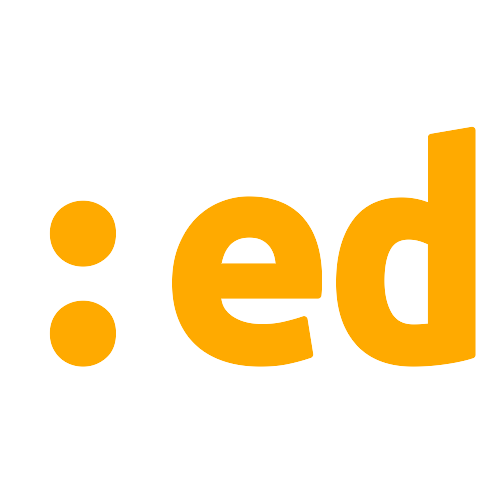
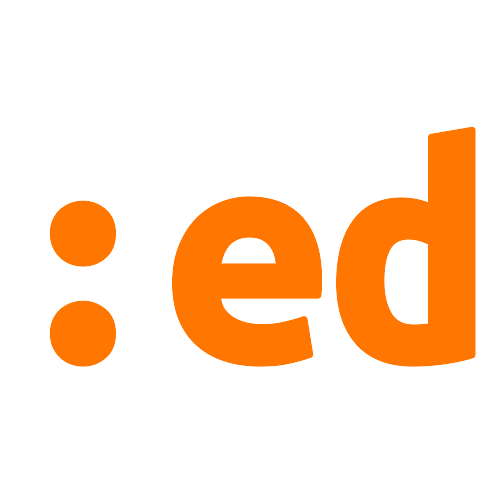
Accent color: Darker orange

Changed region(s): [[0.33, 0.24, 0.96, 0.75], [0.09, 0.6, 0.24, 0.75], [0.09, 0.39, 0.24, 0.54]]

diff --git a/css/styles.36ff197d1bd7d754c9c620bf3fca7692f368ab3621d83b90837c906c89a2ace8ad28c2ec88e40e6772bbf838774b2ab187288ac1114caa166330755726391f30.css b/css/styles.36ff197d1bd7d754c9c620bf3fca7692f368ab3621d83b90837c906c89a2ace8ad28c2ec88e40e6772bbf838774b2ab187288ac1114caa166330755726391f30.css
@@ -1,0 +1,3 @@
+:root{--dark_bg:          #1a1a1a;--dark_hl_bg:       #232323;--dark_fg:          #fff;--dark_dim_fg:      #bbb;--dark_stroke:      #232323;--dark_accent:      #f70;--dark_sidebar_bg:  #232323;--dark_sidebar_fg:  #fff;--light_bg:         #f5f5f5;--light_hl_bg:      #e6e6e6;--light_fg:         #262625;--light_dim_fg:     #40403e;--light_stroke:     #575754;--light_accent:     #f70;--light_sidebar_bg: #e6e6e6;--light_sidebar_fg: #121211;--default_bg:         #1a1a1a;--default_hl_bg:      #232323;--default_fg:         #fff;--default_dim_fg:     #bbb;--default_stroke:     #232323;--default_accent:     #f70;--default_sidebar_bg: #232323;--default_sidebar_fg: #fff}::selection,::-moz-selection{background:var(--default_accent);color:var(--default_fg)}body,html{font-family:"Symbols Nerd Font",serif,monospace;font-size:24px;margin:0;padding:0;background-color:var(--default_bg);color:var(--default_fg)}body{min-height:100vh}a{color:var(--default_fg);text-decoration:none;background-color:transparent;border-radius:0;border-bottom:2px solid currentcolor}a:hover,a:hover:not([disabled]),a:focus,a:focus:not([disabled]){border-color:var(--default_accent) !important;background-color:transparent}a.unstyledLink{border:none;text-decoration:none;color:var(--default_fg);background-color:var(--default_bg)}#content{max-width:1200px;margin-left:auto;margin-right:auto;padding:15px}footer{color:var(--default_dim_fg)}footer a{color:var(--default_dim_fg)}footer hr{margin-top:30px}footer .footerColumns{font-size:21.6px;display:flex;flex-direction:row;flex-wrap:wrap}footer .footerColumns ul{margin:7.5px;list-style-type:none;padding:0}footer .footerColumns ul li>strong{font-size:1.5rem}#links{padding:5px 0}article img,.articlePreview img{margin:auto;display:block;max-width:100%}article pre,article code,.articlePreview pre,.articlePreview code{overflow:auto}article pre,.articlePreview pre{padding:15px;border:1px solid var(--default_stroke);border-radius:3px}code{font-family:"Symbols Nerd Font",monospace,monospace;font-size:21.248px;border:1px solid var(--default_stroke);border-radius:3px}code,table{padding:2px}pre code{border:none;border-radius:none;padding:0}table{border-collapse:collapse;overflow-x:auto;display:block}table td,table th{padding:6px;border:1px solid var(--default_stroke)}table th,table tr:nth-child(even){filter:brightness(105%)}blockquote{margin:1;padding-left:19.5px;border-left:10px solid gray;font-weight:italic}.date,.date a{color:var(--default_dim_fg);border-color:var(--default_dim_fg);font-size:.9em}#pageNavigation a,.nerdlink a,nav:not(#TableOfContents) a{border-bottom:none}#pageNavigation a:hover,.nerdlink a:hover,nav:not(#TableOfContents) a:hover{border-bottom:none}#pageNavigation{text-align:right}#pageNavigation a{color:var(--default_accent)}#pageNavigation a,#pageNavigation span{display:inline-block;padding:6px}#pageNavigation.nav-circles{display:flex;flex-direction:row;flex-wrap:wrap;justify-content:flex-end;align-items:center}#pageNavigation.nav-circles a,#pageNavigation.nav-circles span{margin:5px;text-align:center;display:inline-block;width:40px;height:40px;line-height:40px;padding:unset;border-radius:100%;transition:background-color .15s ease-in-out;background-color:var(--default_hl_bg);color:var(--default_fg);box-shadow:0 0 5px 0 rgba(0,0,0,0.2)}#pageNavigation.nav-circles span{background-color:var(--default_accent)}#pageNavigation.nav-circles a:hover{background-color:var(--default_accent)}h1,h2,h3,h4,h5,h6{font-family:"Symbols Nerd Font",serif}h1 a,h2 a,h3 a,h4 a,h5 a,h6 a{color:var(--default_accent);border-bottom:none}h1{font-size:64px}h2{font-size:48px}h3{font-size:41.6px}h4{font-size:32px}h5{font-size:25.6px}h6{font-size:22.4px}.nerd,.nerdlink{font-family:"Symbols Nerd Font",serif;font-size:19.2px;margin:5px;display:inline-block}.nerdlink{color:var(--default_fg);border-bottom:none;position:relative;width:1em;height:1.2em;display:inline-flex;align-items:center;justify-content:center}.nerdlink .pseudofont{fill:var(--default_fg);display:inline;position:relative;top:1px}.nerdlink span{position:absolute;top:1.5em;left:50%;transform:translateX(-50%);padding:2px;border:1px solid var(--default_stroke);border-radius:3px;color:var(--default_fg);display:none;background-color:var(--default_bg);z-index:900;text-align:center}.nerdlink:hover{color:var(--default_accent);text-decoration:none;border-bottom:none}.nerdlink:hover .pseudofont{fill:var(--default_accent)}.nerdlink:hover span{display:block}.card,.featuredCardLink .featuredCard,.featuredCardLink .relatedArticlesContainer #relatedArticles .postlistitem,.relatedArticlesContainer #relatedArticles .featuredCardLink .postlistitem{display:block;padding-bottom:15px;background-color:var(--default_hl_bg);border-radius:10px;box-shadow:0 0 5px 0 rgba(0,0,0,0.2);padding:15px;padding-top:1px}.card.single h1,.featuredCardLink .single.featuredCard h1,.featuredCardLink .relatedArticlesContainer #relatedArticles .single.postlistitem h1,.relatedArticlesContainer #relatedArticles .featuredCardLink .single.postlistitem h1{font-size:70.4px}.postlist{display:grid;grid-gap:15px;margin-bottom:15px;grid-template-columns:1fr}.postlist.gridView{grid-template-columns:repeat(auto-fit, minmax(325px, 1fr))}.postlistitem.card hr,.featuredCardLink .postlistitem.featuredCard hr,.featuredCardLink .relatedArticlesContainer #relatedArticles .postlistitem hr,.relatedArticlesContainer #relatedArticles .featuredCardLink .postlistitem hr{display:none}.postlistitem.card div img,.featuredCardLink .postlistitem.featuredCard div img,.featuredCardLink .relatedArticlesContainer #relatedArticles .postlistitem div img,.relatedArticlesContainer #relatedArticles .featuredCardLink .postlistitem div img{height:250px;min-width:calc(100% + 30px);margin:0 -15px;object-fit:contain}ul li{margin:5px 0}ul.list .date{display:inline-block;min-width:100px}ul.list>li>div{display:grid;grid-template-columns:100px auto}#commento{margin-top:15px;color:var(--default_fg);font-family:"Symbols Nerd Font",serif,monospace}#commento textarea,#commento #commento-markdown-help-root{background:rgba(255,255,255,0.05);color:var(--default_fg);border-radius:0;border:none}#commento textarea td,#commento textarea td>*,#commento textarea td>*>*,#commento #commento-markdown-help-root td,#commento #commento-markdown-help-root td>*,#commento #commento-markdown-help-root td>*>*{color:var(--default_fg)}#commento textarea td pre,#commento textarea td>* pre,#commento textarea td>*>* pre,#commento #commento-markdown-help-root td pre,#commento #commento-markdown-help-root td>* pre,#commento #commento-markdown-help-root td>*>* pre{font-family:"Symbols Nerd Font",monospace,monospace;color:var(--default_dim_fg)}#commento #commento-submit-button-root{background:var(--default_accent);color:var(--default_fg)}#commento .commento-name{color:var(--default_dim_fg)}#commento .commento-sort-policy-buttons a{border-bottom:none}#commento .commento-sort-policy-buttons .commento-sort-policy-button-selected{color:var(--default_accent)}#commento .commento-card{border-top:none;margin:25px 0}#commento .commento-body>*,#commento .commento-body *>*,#commento .commento-body>*>*>*,#commento .commento-body>*>*>*>*,#commento .commento-body>*>*>*>*>*{color:var(--default_fg);font-family:"Symbols Nerd Font",serif,monospace}.search{display:flex;flex-direction:row;flex-wrap:nowrap;align-items:center;margin:15px 0}.search .nerdlink{display:inline-block;cursor:pointer;padding:0 6px}.search #searchbar{width:100%;min-width:150px;font-size:1.3em;outline:none}.titleAndSearchContainer{display:flex;flex-direction:row;flex-wrap:wrap;justify-content:space-between}.titleAndSearchContainer #titleContainer{flex-grow:99}.titleAndSearchContainer .search{flex-grow:1}.titleAndSearchContainer .search,.titleAndSearchContainer .search #searchbar{font-size:1em}.featuredCardLink{border:none;padding:0}.featuredCardLink .featuredCard,.featuredCardLink .relatedArticlesContainer #relatedArticles .postlistitem,.relatedArticlesContainer #relatedArticles .featuredCardLink .postlistitem{background-size:cover;background-position:center;background-repeat:no-repeat;position:relative;height:250px;border-radius:10px;padding:0}.featuredCardLink .featuredCard .contentArea,.featuredCardLink .relatedArticlesContainer #relatedArticles .postlistitem .contentArea,.relatedArticlesContainer #relatedArticles .featuredCardLink .postlistitem .contentArea{position:absolute;bottom:0;padding:15px}.featuredCardLink .featuredCard .contentArea,.featuredCardLink .relatedArticlesContainer #relatedArticles .postlistitem .contentArea,.relatedArticlesContainer #relatedArticles .featuredCardLink .postlistitem .contentArea,.featuredCardLink .featuredCard .contentArea h2,.featuredCardLink .relatedArticlesContainer #relatedArticles .postlistitem .contentArea h2,.relatedArticlesContainer #relatedArticles .featuredCardLink .postlistitem .contentArea h2,.featuredCardLink .featuredCard .contentArea .date,.featuredCardLink .relatedArticlesContainer #relatedArticles .postlistitem .contentArea .date,.relatedArticlesContainer #relatedArticles .featuredCardLink .postlistitem .contentArea .date{color:white}.featuredCardLink .featuredCard .contentArea h2,.featuredCardLink .relatedArticlesContainer #relatedArticles .postlistitem .contentArea h2,.relatedArticlesContainer #relatedArticles .featuredCardLink .postlistitem .contentArea h2{margin:0}.featuredCardLink .featuredCard .contentArea .date,.featuredCardLink .relatedArticlesContainer #relatedArticles .postlistitem .contentArea .date,.relatedArticlesContainer #relatedArticles .featuredCardLink .postlistitem .contentArea .date{margin:0}.loadMoreButton{text-align:center;font-size:1.2em;font-weight:bold}.loadMoreButton.buttonLike a{display:inline-block;border-radius:10px;background-color:var(--default_hl_bg);color:var(--default_fg);padding:7.5px;margin:2.5px 0;transition:background-color .15s ease-in-out !important;border-bottom:none;box-shadow:0 0 5px 0 rgba(0,0,0,0.2)}.loadMoreButton.buttonLike a:hover,.loadMoreButton.buttonLike a:focus{background-color:var(--default_accent)}.relatedArticlesContainer{margin:15px 0}#titleContainer{display:flex;flex-direction:row;flex-wrap:nowrap;align-items:flex-start;align-self:flex-start}#titleContainer h1{font-weight:normal;font-size:51.2px;margin:0;display:flex;flex-direction:row;flex-wrap:wrap;align-items:center}#titleContainer h1>a{margin-right:12px}#titleContainer img{margin-right:7.5px;margin-top:7px;align-self:flex-start;width:50px;max-height:50px;border-radius:5px}nav:not(#TableOfContents) ul,#links ul{list-style-type:none;display:flex;flex-direction:row;flex-wrap:wrap;padding:0;margin:0}header{max-width:1200px;margin-left:auto;margin-right:auto;padding:15px;margin-bottom:15px}header .rightOfLogo{width:100%}header .rightOfLogo .titleAndHamburger{display:flex;flex-direction:row;flex-wrap:nowrap;align-items:flex-start;justify-content:space-between}header nav:not(#TableOfContents){font-size:.9em}header nav:not(#TableOfContents) ul li{border-right:1px solid var(--default_accent)}header nav:not(#TableOfContents) ul li:last-child{border-right:none}header nav:not(#TableOfContents) ul li a{padding:2px 15px;color:var(--default_accent)}header nav:not(#TableOfContents) ul li a:hover{text-decoration:underline}.articleTagsContainer{margin:15px 0}a.buttonTag{display:inline-block;border-radius:10px;background-color:var(--default_hl_bg);color:var(--default_fg);padding:7.5px;margin:2.5px 0;transition:background-color .15s ease-in-out !important;border-bottom:none;box-shadow:0 0 5px 0 rgba(0,0,0,0.2)}a.buttonTag:hover,a.buttonTag:focus{background-color:var(--default_accent)}.cactus-button,.cactus-login-buttons>button{font-family:serif;padding:0;margin:5px 0 5px 15px !important;color:var(--default_fg);text-decoration:none;background-color:transparent;border-radius:0;border-bottom:2px solid currentcolor;font-size:19.2px;transition-property:border-color, background-color !important;transition-duration:.15s;transition-timing-function:ease-in-out;opacity:1 !important}.cactus-button:hover,.cactus-button:hover:not([disabled]),.cactus-button:focus,.cactus-button:focus:not([disabled]),.cactus-login-buttons>button:hover,.cactus-login-buttons>button:hover:not([disabled]),.cactus-login-buttons>button:focus,.cactus-login-buttons>button:focus:not([disabled]){border-color:var(--default_accent) !important;background-color:transparent}.cactus-button[disabled],.cactus-login-buttons>button[disabled]{opacity:.5 !important;border-color:transparent !important;background-color:transparent !important;box-shadow:none}.shareBtn,button{color:var(--default_fg);text-decoration:none;background-color:transparent;border-radius:0;border-bottom:2px solid currentcolor;font-size:19.2px;cursor:pointer}.shareBtn:hover,.shareBtn:hover:not([disabled]),.shareBtn:focus,.shareBtn:focus:not([disabled]),button:hover,button:hover:not([disabled]),button:focus,button:focus:not([disabled]){border-color:var(--default_accent) !important;background-color:transparent}input,textarea,textarea.cactus-editor-textarea{border-radius:0 !important;box-sizing:border-box;font-family:"Symbols Nerd Font",serif;background-color:var(--default_hl_bg) !important;color:var(--default_fg);max-width:100%;min-width:10px;padding:12px;border:2px solid transparent !important;border-color:transparent;transition:border-color .15s ease-in-out !important}input:focus,input:active,textarea:focus,textarea:active,textarea.cactus-editor-textarea:focus,textarea.cactus-editor-textarea:active{border-color:var(--default_accent) !important;outline:none}.cactus-editor-name{box-sizing:border-box;max-width:100%;min-width:10px}.cactus-login-form{border-radius:0;box-shadow:0 0 5px 0 rgba(0,0,0,0.2);max-width:600px;min-width:200px;width:100%;margin:0 auto;box-sizing:border-box;transform:none;top:30px;left:0;right:0;background-color:var(--default_bg) !important;color:var(--default_fg) !important;z-index:9999}.cactus-login-form>a{color:var(--default_fg);text-decoration:none;background-color:transparent;border-radius:0;border-bottom:2px solid currentcolor;font-size:19.2px;align-self:flex-end}.cactus-login-form>a:hover,.cactus-login-form>a:hover:not([disabled]),.cactus-login-form>a:focus,.cactus-login-form>a:focus:not([disabled]){border-color:var(--default_accent) !important;background-color:transparent}.cactus-login-form>a>button{background-color:transparent !important;border:none !important;box-shadow:none !important;margin:0 !important;padding:0 !important}.cactus-login-form .cactus-login-buttons{margin:0;justify-content:flex-end}.cactus-login-form .cactus-login-buttons>button{flex-grow:0;white-space:nowrap}#fediInstanceDialog{display:none;position:fixed;top:0;bottom:0;left:0;right:0}#fediInstanceDialog .dialog{box-shadow:0 0 5px 0 rgba(0,0,0,0.2);box-sizing:border-box;position:absolute;display:flex;flex-direction:column;top:30px;left:50%;transform:translateX(-50%);z-index:9999;background-color:var(--default_bg);width:450px;max-width:100%;padding:15px}#fediInstanceDialog .dialog h1,#fediInstanceDialog .dialog h2,#fediInstanceDialog .dialog h3,#fediInstanceDialog .dialog h4{margin:0}#fediInstanceDialog .dialog h2{margin-bottom:24px}#fediInstanceDialog .dialog input{display:block}#fediInstanceDialog .dialog .buttons{margin:15px 0;display:flex;flex-direction:row;justify-content:end}#fediInstanceDialog .dialog .buttons>*{margin:5px 0 5px 15px;display:block}#fediInstanceDialog .bg{z-index:99;position:absolute;top:0;bottom:0;left:0;right:0;background-color:rgba(0,0,0,0.4);cursor:pointer}#fediInstanceDialog.open{display:block}header #sidebar_nav,header .sidebarToc{display:none}header #wide_nav{display:block}@media only screen and (min-width: 950px){html:not(.home){position:fixed;top:0;bottom:0;left:0;right:0;color:var(--default_sidebar_fg)}html:not(.home) #baseContainer{display:flex;flex-direction:row;flex-wrap:nowrap;max-height:100vh}html:not(.home) #baseContainer header{margin-left:unset;margin-right:unset;background-color:var(--default_sidebar_bg);max-width:350px;min-width:350px;height:100vh;display:block;overflow:auto;margin-bottom:0;padding:0 15px;box-shadow:0 0 5px 0 rgba(0,0,0,0.2)}html:not(.home) #baseContainer header>*:first-child{padding-bottom:15px;padding-top:15px}html:not(.home) #baseContainer header .rightOfLogo{align-self:center}html:not(.home) #baseContainer header #sidebar_nav{display:block;margin:15px 0;width:100%}html:not(.home) #baseContainer header #sidebar_nav nav:not(#TableOfContents){font-size:1.1em}html:not(.home) #baseContainer header #sidebar_nav nav:not(#TableOfContents) ul#main-nav{flex-direction:column}html:not(.home) #baseContainer header #sidebar_nav nav:not(#TableOfContents) ul#main-nav li{border-right:none}html:not(.home) #baseContainer header #sidebar_nav nav:not(#TableOfContents) ul#main-nav li a{display:block}html:not(.home) #baseContainer header #wide_nav{display:none}html:not(.home) #baseContainer header .sidebarToc{display:block}html:not(.home) #baseContainer header .sidebarToc nav#TableOfContents ul{padding-left:24px}html:not(.home) #baseContainer header .sidebarToc nav#TableOfContents ul a:not(:hover){border-color:transparent}html:not(.home) #baseContainer #contentContainer{flex-grow:1;overflow-y:auto}html:not(.home) .articleToc{display:none}}a{transition-property:color, border-color;transition-duration:.15s;transition-timing-function:ease-in-out}.nerdlink,.nerdlink .pseudofond{transition:all .15s ease-in-out}input{transition:.15s border ease-in-out}
+
+/*# sourceMappingURL=styles.css.map */

diff --git a/404.html b/404.html
@@ -43,7 +43,7 @@
 
     
     
-    <link type="text/css" rel="stylesheet" href=https://hossein-lap.github.io/css/styles.dcd903d900c2ab8d78f15e71742bb809a5561cfc90b43dd43896d93c9a749e21ba7a92af14f294077d26323376452f6cd5b62c47f6a303e1f8ece7e007d7d13d.css integrity="sha512-3NkD2QDCq4148V5xdCu4CaVWHPyQtD3UOJbZPJp0niG6epKvFPKUB30mMjN2RS9s1bYsR/ajA&#43;H47OfgB9fRPQ==" />
+    <link type="text/css" rel="stylesheet" href=https://hossein-lap.github.io/css/styles.36ff197d1bd7d754c9c620bf3fca7692f368ab3621d83b90837c906c89a2ace8ad28c2ec88e40e6772bbf838774b2ab187288ac1114caa166330755726391f30.css integrity="sha512-Nv8ZfRvX11TJxiC/P8p2kvNoqzYh2DuQg3yQbImirOitKMLsiOQOZ3K7&#43;Dh3SyqxhyiKwRFMqhZjMHVXJjkfMA==" />
 <meta name="author" content="Hossein Esmail" />
 
     

diff --git a/about/index.html b/about/index.html
@@ -43,7 +43,7 @@
 
     
     
-    <link type="text/css" rel="stylesheet" href=https://hossein-lap.github.io/css/styles.dcd903d900c2ab8d78f15e71742bb809a5561cfc90b43dd43896d93c9a749e21ba7a92af14f294077d26323376452f6cd5b62c47f6a303e1f8ece7e007d7d13d.css integrity="sha512-3NkD2QDCq4148V5xdCu4CaVWHPyQtD3UOJbZPJp0niG6epKvFPKUB30mMjN2RS9s1bYsR/ajA&#43;H47OfgB9fRPQ==" />
+    <link type="text/css" rel="stylesheet" href=https://hossein-lap.github.io/css/styles.36ff197d1bd7d754c9c620bf3fca7692f368ab3621d83b90837c906c89a2ace8ad28c2ec88e40e6772bbf838774b2ab187288ac1114caa166330755726391f30.css integrity="sha512-Nv8ZfRvX11TJxiC/P8p2kvNoqzYh2DuQg3yQbImirOitKMLsiOQOZ3K7&#43;Dh3SyqxhyiKwRFMqhZjMHVXJjkfMA==" />
 <meta name="author" content="Hossein Esmail" />
 
     

diff --git a/categories/index.html b/categories/index.html
@@ -48,7 +48,7 @@
 
     
     
-    <link type="text/css" rel="stylesheet" href=https://hossein-lap.github.io/css/styles.dcd903d900c2ab8d78f15e71742bb809a5561cfc90b43dd43896d93c9a749e21ba7a92af14f294077d26323376452f6cd5b62c47f6a303e1f8ece7e007d7d13d.css integrity="sha512-3NkD2QDCq4148V5xdCu4CaVWHPyQtD3UOJbZPJp0niG6epKvFPKUB30mMjN2RS9s1bYsR/ajA&#43;H47OfgB9fRPQ==" />
+    <link type="text/css" rel="stylesheet" href=https://hossein-lap.github.io/css/styles.36ff197d1bd7d754c9c620bf3fca7692f368ab3621d83b90837c906c89a2ace8ad28c2ec88e40e6772bbf838774b2ab187288ac1114caa166330755726391f30.css integrity="sha512-Nv8ZfRvX11TJxiC/P8p2kvNoqzYh2DuQg3yQbImirOitKMLsiOQOZ3K7&#43;Dh3SyqxhyiKwRFMqhZjMHVXJjkfMA==" />
 <meta name="author" content="Hossein Esmail" />
 
     

diff --git a/docs/asciidoc/asciidoc/index.html b/docs/asciidoc/asciidoc/index.html
@@ -43,7 +43,7 @@
 
     
     
-    <link type="text/css" rel="stylesheet" href=https://hossein-lap.github.io/css/styles.dcd903d900c2ab8d78f15e71742bb809a5561cfc90b43dd43896d93c9a749e21ba7a92af14f294077d26323376452f6cd5b62c47f6a303e1f8ece7e007d7d13d.css integrity="sha512-3NkD2QDCq4148V5xdCu4CaVWHPyQtD3UOJbZPJp0niG6epKvFPKUB30mMjN2RS9s1bYsR/ajA&#43;H47OfgB9fRPQ==" />
+    <link type="text/css" rel="stylesheet" href=https://hossein-lap.github.io/css/styles.36ff197d1bd7d754c9c620bf3fca7692f368ab3621d83b90837c906c89a2ace8ad28c2ec88e40e6772bbf838774b2ab187288ac1114caa166330755726391f30.css integrity="sha512-Nv8ZfRvX11TJxiC/P8p2kvNoqzYh2DuQg3yQbImirOitKMLsiOQOZ3K7&#43;Dh3SyqxhyiKwRFMqhZjMHVXJjkfMA==" />
 <meta name="author" content="Hossein Esmail" />
 
     

diff --git a/docs/elixir/elixir/index.html b/docs/elixir/elixir/index.html
@@ -43,7 +43,7 @@
 
     
     
-    <link type="text/css" rel="stylesheet" href=https://hossein-lap.github.io/css/styles.dcd903d900c2ab8d78f15e71742bb809a5561cfc90b43dd43896d93c9a749e21ba7a92af14f294077d26323376452f6cd5b62c47f6a303e1f8ece7e007d7d13d.css integrity="sha512-3NkD2QDCq4148V5xdCu4CaVWHPyQtD3UOJbZPJp0niG6epKvFPKUB30mMjN2RS9s1bYsR/ajA&#43;H47OfgB9fRPQ==" />
+    <link type="text/css" rel="stylesheet" href=https://hossein-lap.github.io/css/styles.36ff197d1bd7d754c9c620bf3fca7692f368ab3621d83b90837c906c89a2ace8ad28c2ec88e40e6772bbf838774b2ab187288ac1114caa166330755726391f30.css integrity="sha512-Nv8ZfRvX11TJxiC/P8p2kvNoqzYh2DuQg3yQbImirOitKMLsiOQOZ3K7&#43;Dh3SyqxhyiKwRFMqhZjMHVXJjkfMA==" />
 <meta name="author" content="Hossein Esmail" />
 
     

diff --git a/docs/go/go/index.html b/docs/go/go/index.html
@@ -43,7 +43,7 @@
 
     
     
-    <link type="text/css" rel="stylesheet" href=https://hossein-lap.github.io/css/styles.dcd903d900c2ab8d78f15e71742bb809a5561cfc90b43dd43896d93c9a749e21ba7a92af14f294077d26323376452f6cd5b62c47f6a303e1f8ece7e007d7d13d.css integrity="sha512-3NkD2QDCq4148V5xdCu4CaVWHPyQtD3UOJbZPJp0niG6epKvFPKUB30mMjN2RS9s1bYsR/ajA&#43;H47OfgB9fRPQ==" />
+    <link type="text/css" rel="stylesheet" href=https://hossein-lap.github.io/css/styles.36ff197d1bd7d754c9c620bf3fca7692f368ab3621d83b90837c906c89a2ace8ad28c2ec88e40e6772bbf838774b2ab187288ac1114caa166330755726391f30.css integrity="sha512-Nv8ZfRvX11TJxiC/P8p2kvNoqzYh2DuQg3yQbImirOitKMLsiOQOZ3K7&#43;Dh3SyqxhyiKwRFMqhZjMHVXJjkfMA==" />
 <meta name="author" content="Hossein Esmail" />
 
     

diff --git a/docs/index.html b/docs/index.html
@@ -48,7 +48,7 @@
 
     
     
-    <link type="text/css" rel="stylesheet" href=https://hossein-lap.github.io/css/styles.dcd903d900c2ab8d78f15e71742bb809a5561cfc90b43dd43896d93c9a749e21ba7a92af14f294077d26323376452f6cd5b62c47f6a303e1f8ece7e007d7d13d.css integrity="sha512-3NkD2QDCq4148V5xdCu4CaVWHPyQtD3UOJbZPJp0niG6epKvFPKUB30mMjN2RS9s1bYsR/ajA&#43;H47OfgB9fRPQ==" />
+    <link type="text/css" rel="stylesheet" href=https://hossein-lap.github.io/css/styles.36ff197d1bd7d754c9c620bf3fca7692f368ab3621d83b90837c906c89a2ace8ad28c2ec88e40e6772bbf838774b2ab187288ac1114caa166330755726391f30.css integrity="sha512-Nv8ZfRvX11TJxiC/P8p2kvNoqzYh2DuQg3yQbImirOitKMLsiOQOZ3K7&#43;Dh3SyqxhyiKwRFMqhZjMHVXJjkfMA==" />
 <meta name="author" content="Hossein Esmail" />
 
     

diff --git a/docs/lua/lua/index.html b/docs/lua/lua/index.html
@@ -43,7 +43,7 @@
 
     
     
-    <link type="text/css" rel="stylesheet" href=https://hossein-lap.github.io/css/styles.dcd903d900c2ab8d78f15e71742bb809a5561cfc90b43dd43896d93c9a749e21ba7a92af14f294077d26323376452f6cd5b62c47f6a303e1f8ece7e007d7d13d.css integrity="sha512-3NkD2QDCq4148V5xdCu4CaVWHPyQtD3UOJbZPJp0niG6epKvFPKUB30mMjN2RS9s1bYsR/ajA&#43;H47OfgB9fRPQ==" />
+    <link type="text/css" rel="stylesheet" href=https://hossein-lap.github.io/css/styles.36ff197d1bd7d754c9c620bf3fca7692f368ab3621d83b90837c906c89a2ace8ad28c2ec88e40e6772bbf838774b2ab187288ac1114caa166330755726391f30.css integrity="sha512-Nv8ZfRvX11TJxiC/P8p2kvNoqzYh2DuQg3yQbImirOitKMLsiOQOZ3K7&#43;Dh3SyqxhyiKwRFMqhZjMHVXJjkfMA==" />
 <meta name="author" content="Hossein Esmail" />
 
     

diff --git a/index.html b/index.html
@@ -47,7 +47,7 @@
 
     
     
-    <link type="text/css" rel="stylesheet" href=https://hossein-lap.github.io/css/styles.dcd903d900c2ab8d78f15e71742bb809a5561cfc90b43dd43896d93c9a749e21ba7a92af14f294077d26323376452f6cd5b62c47f6a303e1f8ece7e007d7d13d.css integrity="sha512-3NkD2QDCq4148V5xdCu4CaVWHPyQtD3UOJbZPJp0niG6epKvFPKUB30mMjN2RS9s1bYsR/ajA&#43;H47OfgB9fRPQ==" />
+    <link type="text/css" rel="stylesheet" href=https://hossein-lap.github.io/css/styles.36ff197d1bd7d754c9c620bf3fca7692f368ab3621d83b90837c906c89a2ace8ad28c2ec88e40e6772bbf838774b2ab187288ac1114caa166330755726391f30.css integrity="sha512-Nv8ZfRvX11TJxiC/P8p2kvNoqzYh2DuQg3yQbImirOitKMLsiOQOZ3K7&#43;Dh3SyqxhyiKwRFMqhZjMHVXJjkfMA==" />
 <meta name="author" content="Hossein Esmail" />
 
     

diff --git a/notes/grafana/index.html b/notes/grafana/index.html
@@ -43,7 +43,7 @@
 
     
     
-    <link type="text/css" rel="stylesheet" href=https://hossein-lap.github.io/css/styles.dcd903d900c2ab8d78f15e71742bb809a5561cfc90b43dd43896d93c9a749e21ba7a92af14f294077d26323376452f6cd5b62c47f6a303e1f8ece7e007d7d13d.css integrity="sha512-3NkD2QDCq4148V5xdCu4CaVWHPyQtD3UOJbZPJp0niG6epKvFPKUB30mMjN2RS9s1bYsR/ajA&#43;H47OfgB9fRPQ==" />
+    <link type="text/css" rel="stylesheet" href=https://hossein-lap.github.io/css/styles.36ff197d1bd7d754c9c620bf3fca7692f368ab3621d83b90837c906c89a2ace8ad28c2ec88e40e6772bbf838774b2ab187288ac1114caa166330755726391f30.css integrity="sha512-Nv8ZfRvX11TJxiC/P8p2kvNoqzYh2DuQg3yQbImirOitKMLsiOQOZ3K7&#43;Dh3SyqxhyiKwRFMqhZjMHVXJjkfMA==" />
 <meta name="author" content="Hossein Esmail" />
 
     

diff --git a/notes/index.html b/notes/index.html
@@ -48,7 +48,7 @@
 
     
     
-    <link type="text/css" rel="stylesheet" href=https://hossein-lap.github.io/css/styles.dcd903d900c2ab8d78f15e71742bb809a5561cfc90b43dd43896d93c9a749e21ba7a92af14f294077d26323376452f6cd5b62c47f6a303e1f8ece7e007d7d13d.css integrity="sha512-3NkD2QDCq4148V5xdCu4CaVWHPyQtD3UOJbZPJp0niG6epKvFPKUB30mMjN2RS9s1bYsR/ajA&#43;H47OfgB9fRPQ==" />
+    <link type="text/css" rel="stylesheet" href=https://hossein-lap.github.io/css/styles.36ff197d1bd7d754c9c620bf3fca7692f368ab3621d83b90837c906c89a2ace8ad28c2ec88e40e6772bbf838774b2ab187288ac1114caa166330755726391f30.css integrity="sha512-Nv8ZfRvX11TJxiC/P8p2kvNoqzYh2DuQg3yQbImirOitKMLsiOQOZ3K7&#43;Dh3SyqxhyiKwRFMqhZjMHVXJjkfMA==" />
 <meta name="author" content="Hossein Esmail" />
 
     
